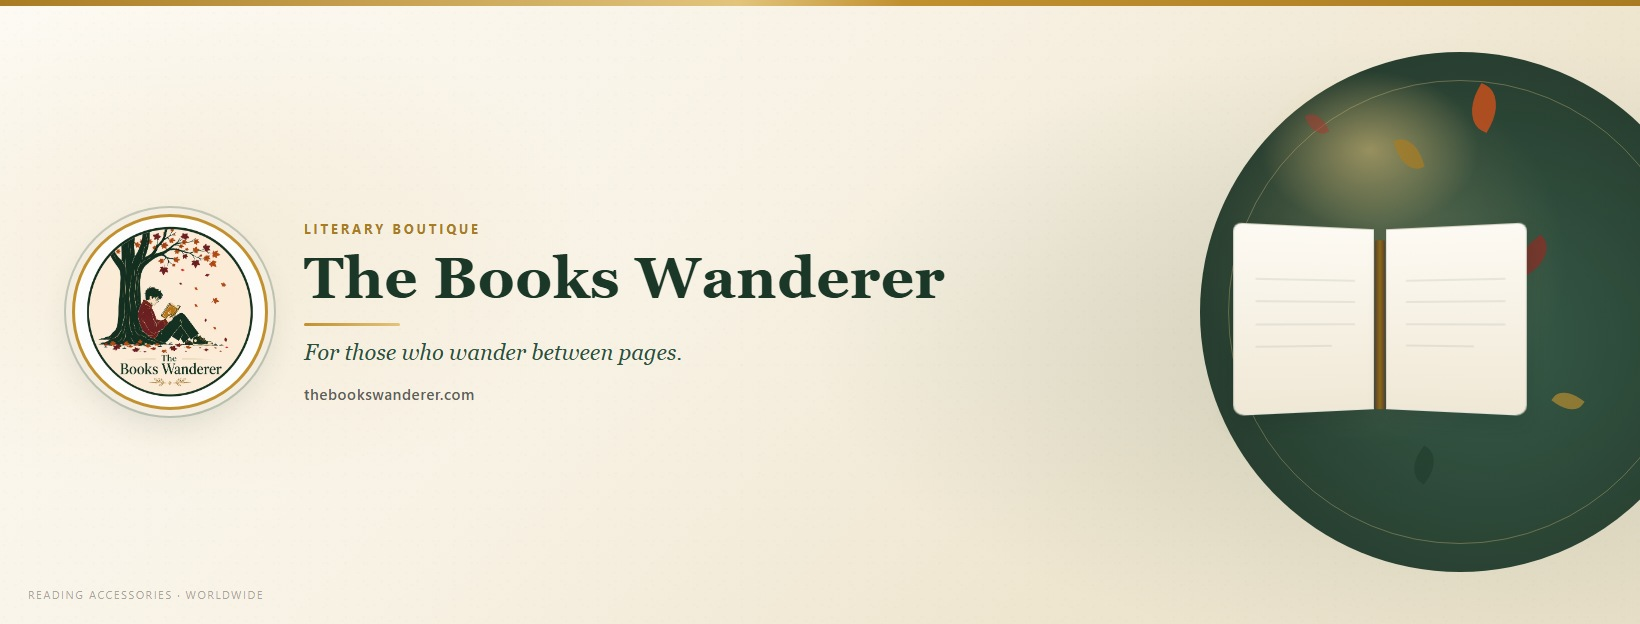
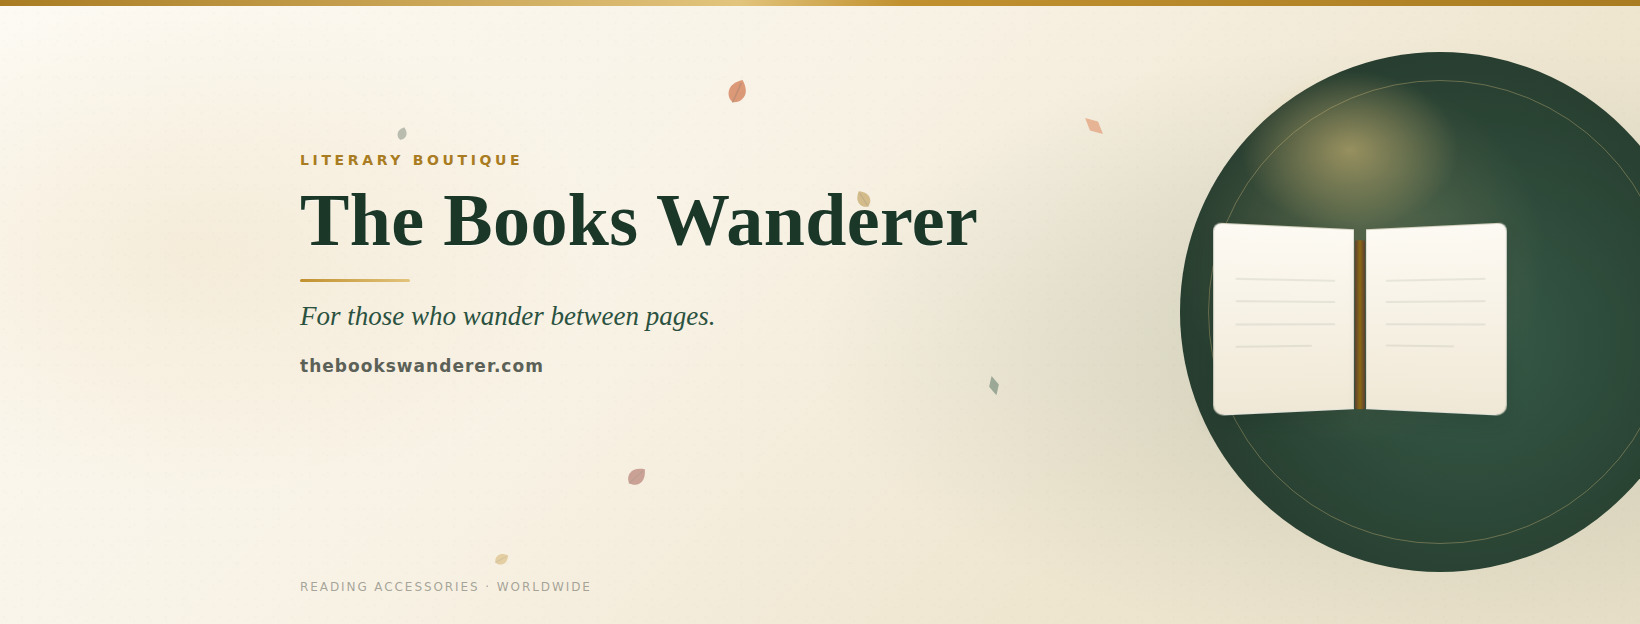
Redraw the Facebook cover around Facebook's own crops
Three things were wrong with it. The logo sat in a circle at the lower left,
which is exactly where Facebook overlays the profile picture on desktop, so the
logo covered the logo. The decorative leaves were bare divs with a border-radius
and a flat fill; the site itself ships proper leaf SVGs with a vein, so the
cover now uses those and matches the shop. And the brand block started 72px from
the edge, inside the ~300px Facebook shaves off each side on mobile.

Content now lives in a .safe band clear of both crops, the lower left is left
deliberately empty for the profile picture, and the type is larger to survive
being scaled down in a timeline. The header comment records the render command
and both constraints so the next edit does not reintroduce them.

diff --git a/assets/social/facebook-cover.html b/assets/social/facebook-cover.html
@@ -3,6 +3,24 @@
 <head>
 <meta charset="utf-8">
 <title>FB Cover · The Books Wanderer</title>
+<!--
+  Portada de Facebook · 1640x624
+
+  Render:
+    chromium --headless --screenshot=facebook-cover.png --window-size=1640,624 \
+             https://thebookswanderer.com/assets/social/facebook-cover.html
+
+  Dos restricciones de Facebook que condicionan el diseño:
+
+  1. RECORTE EN MOVIL. En escritorio se ve la imagen entera (proporcion 2.63:1),
+     pero en movil se recorta a ~1.78:1 desde el centro: se pierden unos 300px
+     por cada lado. Todo lo legible vive dentro de .safe.
+
+  2. LA FOTO DE PERFIL. En escritorio se superpone sobre la esquina inferior
+     izquierda, ocupando aproximadamente 230x230 desde x=48. Esa zona queda
+     vacia a proposito: antes habia un circulo con el logo justo debajo, y la
+     foto de perfil lo tapaba.
+-->
 <style>
   * { box-sizing: border-box; margin: 0; padding: 0; }
   html, body {
@@ -24,7 +42,7 @@
     color: #1b3728;
   }
 
-  /* subtle paper grain via layered noise-ish dots (pure CSS) */
+  /* Grano de papel */
   .cover::before {
     content: "";
     position: absolute;
@@ -46,34 +64,10 @@
     z-index: 5;
   }
 
-  /* decorative leaf shapes (right side) */
-  .leaves {
-    position: absolute;
-    right: 0; top: 0; bottom: 0;
-    width: 48%;
-    pointer-events: none;
-    z-index: 1;
-  }
-  .leaf {
-    position: absolute;
-    width: 28px; height: 42px;
-    border-radius: 0 80% 0 80%;
-    transform-origin: center;
-    opacity: 0.85;
-  }
-  .leaf.l1 { background: #c4501e; right: 18%; top: 14%; transform: rotate(28deg); }
-  .leaf.l2 { background: #a97c22; right: 28%; top: 22%; width: 22px; height: 34px; transform: rotate(-18deg); opacity: 0.7; }
-  .leaf.l3 { background: #8b2f27; right: 12%; top: 38%; width: 24px; height: 36px; transform: rotate(52deg); opacity: 0.75; }
-  .leaf.l4 { background: #2b5240; right: 22%; top: 48%; width: 20px; height: 30px; transform: rotate(-40deg); opacity: 0.55; }
-  .leaf.l5 { background: #d9662f; right: 34%; top: 58%; width: 26px; height: 38px; transform: rotate(12deg); opacity: 0.7; }
-  .leaf.l6 { background: #c1912f; right: 8%; top: 62%; width: 18px; height: 28px; transform: rotate(-55deg); opacity: 0.65; }
-  .leaf.l7 { background: #1b3728; right: 26%; top: 72%; width: 22px; height: 32px; transform: rotate(35deg); opacity: 0.5; }
-  .leaf.l8 { background: #a63a2f; right: 40%; top: 18%; width: 16px; height: 24px; transform: rotate(-25deg); opacity: 0.55; }
-
-  /* soft green panel accent on the right */
+  /* Orbe verde con el libro */
   .panel-right {
     position: absolute;
-    right: -80px;
+    right: -60px;
     top: 50%;
     transform: translateY(-50%);
     width: 520px;
@@ -93,10 +87,9 @@
     border: 1.5px solid rgba(226, 196, 124, 0.35);
   }
 
-  /* open book silhouette (CSS shapes) on the green orb */
   .book {
     position: absolute;
-    right: 120px;
+    right: 140px;
     top: 50%;
     transform: translateY(-46%);
     width: 280px;
@@ -154,7 +147,7 @@
 
   .glow {
     position: absolute;
-    right: 160px;
+    right: 180px;
     top: 70px;
     width: 220px;
     height: 160px;
@@ -163,92 +156,86 @@
     pointer-events: none;
   }
 
-  /* left brand block */
-  .brand {
+  /* Hojas: el mismo SVG que cae en la portada del sitio, no bloques con
+     border-radius. Consistencia de marca y bordes reales con nervadura. */
+  .leaves {
     position: absolute;
-    left: 72px;
-    top: 50%;
-    transform: translateY(-50%);
-    display: flex;
-    align-items: center;
-    gap: 36px;
-    z-index: 4;
-    max-width: 920px;
+    inset: 0;
+    pointer-events: none;
+    z-index: 1;
   }
-  .logo-wrap {
-    flex-shrink: 0;
-    width: 196px;
-    height: 196px;
-    border-radius: 50%;
-    background: #fffdf8;
-    border: 3px solid #c1912f;
-    box-shadow:
-      0 0 0 6px rgba(248, 242, 229, 0.9),
-      0 0 0 8px rgba(43, 82, 64, 0.25),
-      0 14px 32px rgba(27, 55, 40, 0.12);
-    overflow: hidden;
-    display: flex;
-    align-items: center;
-    justify-content: center;
-  }
-  .logo-wrap img {
-    width: 188px;
-    height: 188px;
-    object-fit: cover;
-    border-radius: 50%;
+  .leaves svg {
+    position: absolute;
     display: block;
   }
-  .copy {
+  .lf1 { left: 44%; top: 12%; width: 30px; transform: rotate(24deg);  color: #c4501e; opacity: .55; }
+  .lf2 { left: 52%; top: 30%; width: 22px; transform: rotate(-32deg); color: #a97c22; opacity: .45; }
+  .lf3 { left: 38%; top: 74%; width: 26px; transform: rotate(48deg);  color: #8b2f27; opacity: .40; }
+  .lf4 { left: 60%; top: 60%; width: 20px; transform: rotate(-14deg); color: #2b5240; opacity: .40; }
+  .lf5 { left: 30%; top: 88%; width: 18px; transform: rotate(62deg);  color: #c1912f; opacity: .35; }
+  .lf6 { left: 66%; top: 18%; width: 24px; transform: rotate(-48deg); color: #d9662f; opacity: .40; }
+  .lf7 { left: 24%; top: 20%; width: 16px; transform: rotate(18deg);  color: #1b3728; opacity: .28; }
+
+  /* Zona segura: sobrevive al recorte movil y esquiva la foto de perfil. */
+  .safe {
+    position: absolute;
+    left: 300px;
+    right: 470px;
+    top: 0;
+    bottom: 96px;
     display: flex;
     flex-direction: column;
-    gap: 10px;
-    min-width: 0;
+    justify-content: center;
+    z-index: 4;
   }
   .eyebrow {
     font-family: "Segoe UI", system-ui, sans-serif;
-    font-size: 13px;
+    font-size: 14px;
     font-weight: 700;
-    letter-spacing: 0.22em;
+    letter-spacing: 0.26em;
     text-transform: uppercase;
     color: #a97c22;
+    margin-bottom: 14px;
   }
   h1 {
-    font-size: 58px;
+    font-size: 74px;
     font-weight: 600;
-    line-height: 1.08;
-    letter-spacing: 0.01em;
+    line-height: 1.04;
+    letter-spacing: 0.005em;
     color: #1b3728;
+    text-shadow: 0 1px 0 rgba(255,255,255,.5);
   }
   .rule {
-    width: 96px;
+    width: 110px;
     height: 3px;
     border-radius: 2px;
     background: linear-gradient(90deg, #c1912f, #e2c47c);
-    margin: 4px 0 2px;
+    margin: 20px 0 16px;
   }
   .tag {
-    font-size: 22px;
+    font-size: 27px;
     font-style: italic;
     color: #2b5240;
     line-height: 1.35;
-    max-width: 520px;
+    max-width: 620px;
   }
   .url {
     font-family: "Segoe UI", system-ui, sans-serif;
-    font-size: 15px;
+    font-size: 17px;
     font-weight: 600;
-    letter-spacing: 0.04em;
+    letter-spacing: 0.06em;
     color: #5c6157;
-    margin-top: 6px;
+    margin-top: 22px;
   }
 
+  /* Reservado para la foto de perfil en escritorio. Vacio a proposito. */
   .corner {
     position: absolute;
-    left: 28px;
-    bottom: 22px;
+    left: 300px;
+    bottom: 30px;
     font-family: "Segoe UI", system-ui, sans-serif;
-    font-size: 11px;
-    letter-spacing: 0.14em;
+    font-size: 12px;
+    letter-spacing: 0.16em;
     text-transform: uppercase;
     color: rgba(92, 97, 87, 0.55);
     z-index: 4;
@@ -260,44 +247,37 @@
     <div class="gold-bar"></div>
     <div class="panel-right"></div>
     <div class="glow"></div>
-    <div class="leaves">
-      <span class="leaf l1"></span>
-      <span class="leaf l2"></span>
-      <span class="leaf l3"></span>
-      <span class="leaf l4"></span>
-      <span class="leaf l5"></span>
-      <span class="leaf l6"></span>
-      <span class="leaf l7"></span>
-      <span class="leaf l8"></span>
+
+    <div class="leaves" aria-hidden="true">
+      <svg class="lf1" viewBox="0 0 24 28"><path d="M12 3C7 7 4.5 11 5.5 15.5 6.4 19.5 9 21.5 12 22.5c3-1 5.6-3 6.5-7C19.5 11 17 7 12 3Z" fill="currentColor"/><path d="M12 22.5V6" stroke="rgba(0,0,0,.25)" stroke-width="1.2" fill="none" stroke-linecap="round"/></svg>
+      <svg class="lf2" viewBox="0 0 24 28"><path d="M12 3C7 7 4.5 11 5.5 15.5 6.4 19.5 9 21.5 12 22.5c3-1 5.6-3 6.5-7C19.5 11 17 7 12 3Z" fill="currentColor"/><path d="M12 22.5V6" stroke="rgba(0,0,0,.25)" stroke-width="1.2" fill="none" stroke-linecap="round"/></svg>
+      <svg class="lf3" viewBox="0 0 24 28"><path d="M12 3C7 7 4.5 11 5.5 15.5 6.4 19.5 9 21.5 12 22.5c3-1 5.6-3 6.5-7C19.5 11 17 7 12 3Z" fill="currentColor"/><path d="M12 22.5V6" stroke="rgba(0,0,0,.25)" stroke-width="1.2" fill="none" stroke-linecap="round"/></svg>
+      <svg class="lf4" viewBox="0 0 24 28"><path d="M12 2l6 12-6 12-6-12 6-12Z" fill="currentColor"/></svg>
+      <svg class="lf5" viewBox="0 0 24 28"><path d="M12 3C7 7 4.5 11 5.5 15.5 6.4 19.5 9 21.5 12 22.5c3-1 5.6-3 6.5-7C19.5 11 17 7 12 3Z" fill="currentColor"/><path d="M12 22.5V6" stroke="rgba(0,0,0,.25)" stroke-width="1.2" fill="none" stroke-linecap="round"/></svg>
+      <svg class="lf6" viewBox="0 0 24 28"><path d="M12 2l6 12-6 12-6-12 6-12Z" fill="currentColor"/></svg>
+      <svg class="lf7" viewBox="0 0 24 28"><path d="M12 3C7 7 4.5 11 5.5 15.5 6.4 19.5 9 21.5 12 22.5c3-1 5.6-3 6.5-7C19.5 11 17 7 12 3Z" fill="currentColor"/><path d="M12 22.5V6" stroke="rgba(0,0,0,.25)" stroke-width="1.2" fill="none" stroke-linecap="round"/></svg>
     </div>
+
     <div class="book" aria-hidden="true">
       <div class="page left">
-        <span class="line"></span>
-        <span class="line"></span>
-        <span class="line"></span>
-        <span class="line"></span>
+        <span class="line"></span><span class="line"></span>
+        <span class="line"></span><span class="line"></span>
       </div>
       <div class="spine"></div>
       <div class="page right">
-        <span class="line"></span>
-        <span class="line"></span>
-        <span class="line"></span>
-        <span class="line"></span>
+        <span class="line"></span><span class="line"></span>
+        <span class="line"></span><span class="line"></span>
       </div>
     </div>
 
-    <div class="brand">
-      <div class="logo-wrap">
-        <img src="../logo.png" alt="The Books Wanderer" width="188" height="188">
-      </div>
-      <div class="copy">
-        <div class="eyebrow">Literary boutique</div>
-        <h1>The Books Wanderer</h1>
-        <div class="rule"></div>
-        <p class="tag">For those who wander between pages.</p>
-        <p class="url">thebookswanderer.com</p>
-      </div>
+    <div class="safe">
+      <div class="eyebrow">Literary boutique</div>
+      <h1>The Books Wanderer</h1>
+      <div class="rule"></div>
+      <p class="tag">For those who wander between pages.</p>
+      <p class="url">thebookswanderer.com</p>
     </div>
+
     <div class="corner">Reading accessories · worldwide</div>
   </div>
 </body>
